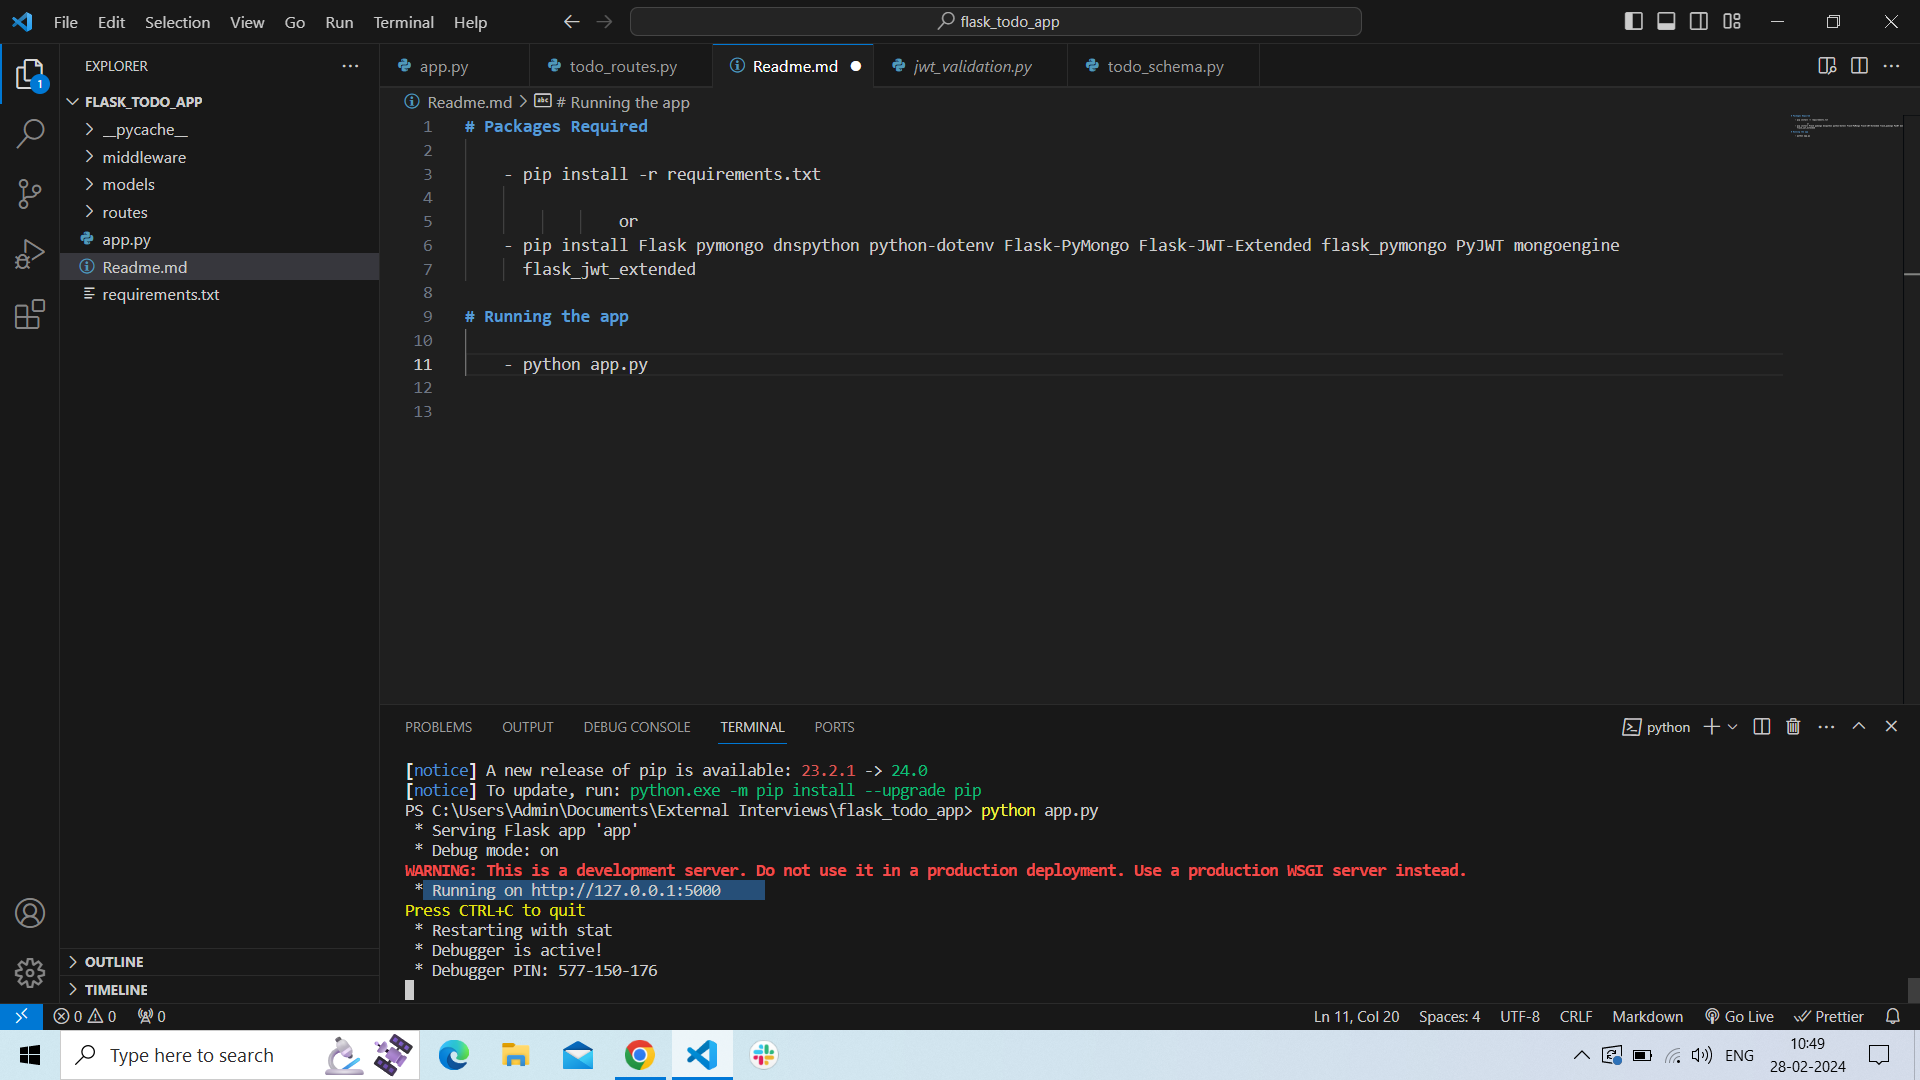
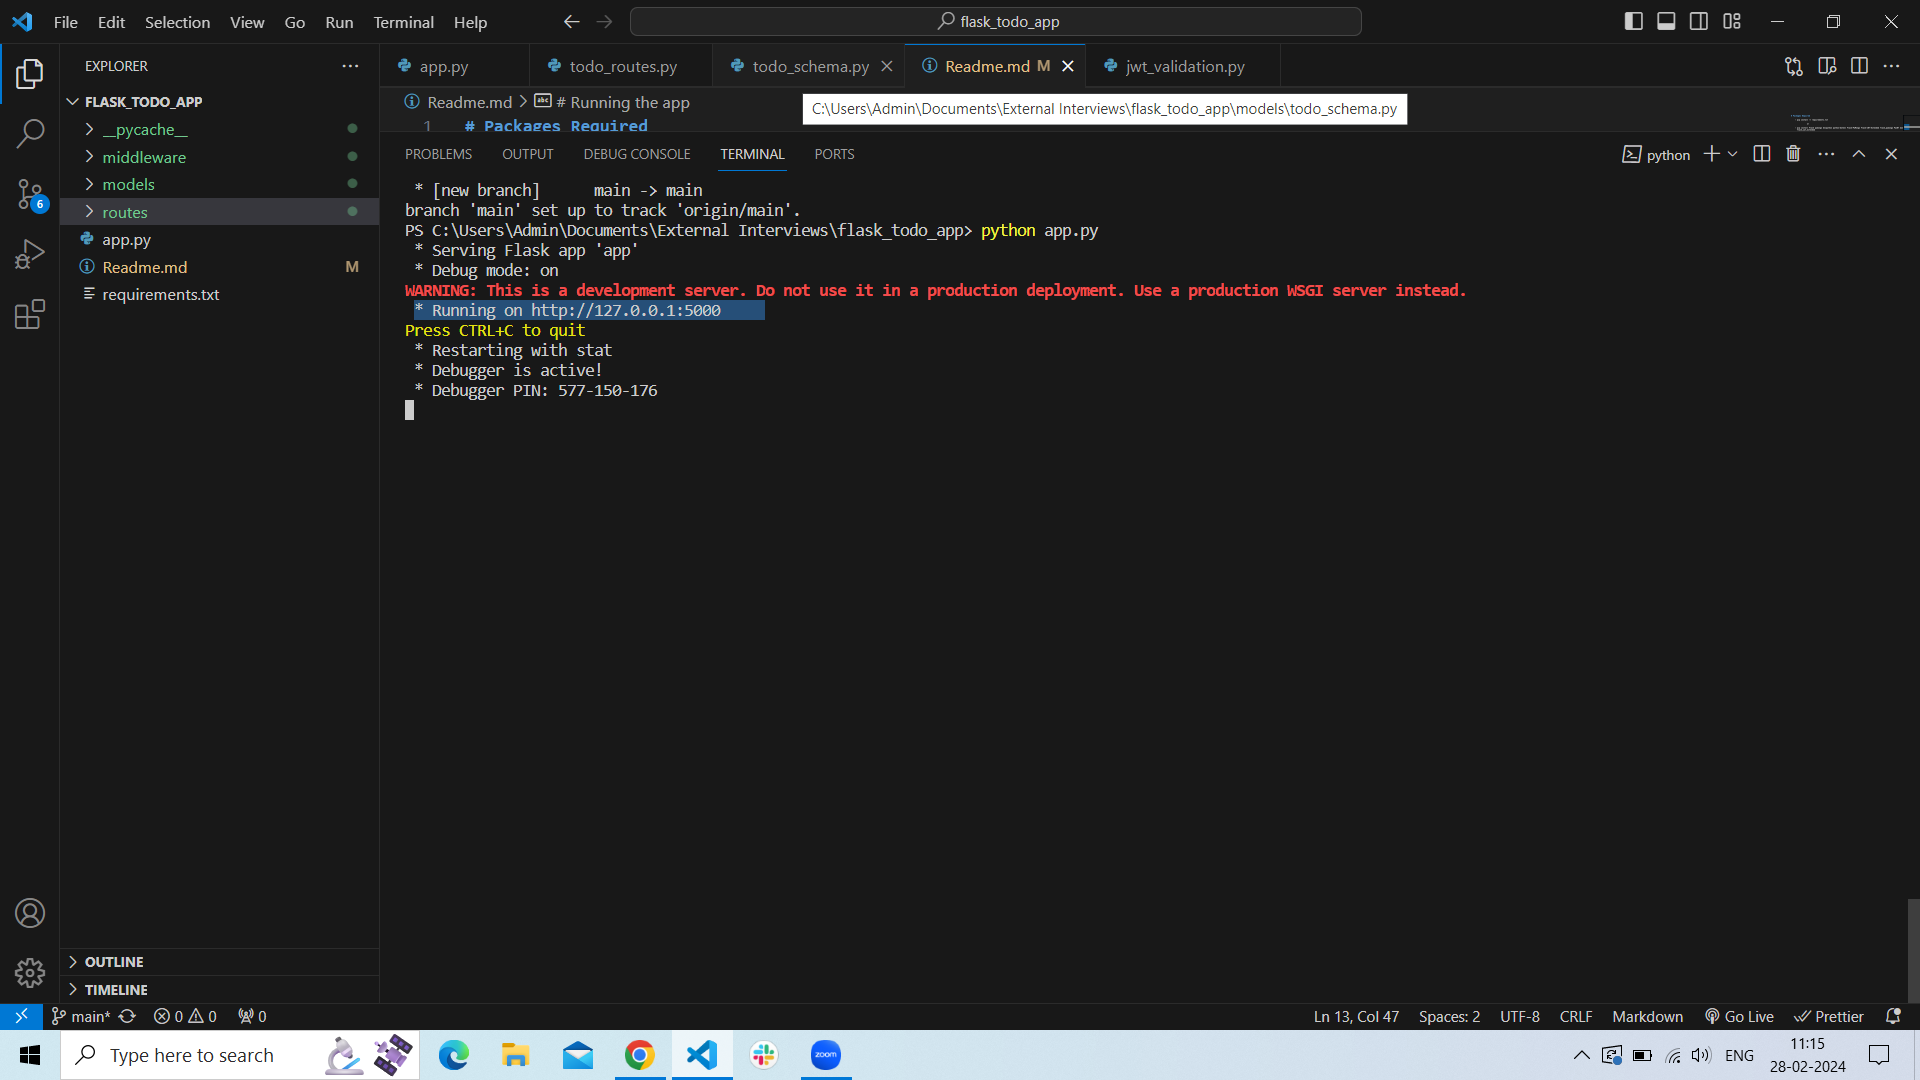
Added Readme file

diff --git a/app.py b/app.py
@@ -3,8 +3,8 @@ from flask_pymongo import PyMongo
 import datetime
 
 app = Flask(__name__)
-app.config['MONGO_URI'] = 'mongodb+srv://selva658:selva100_@cluster0.fowgx.mongodb.net/lybrate'
-app.config['SECRET_KEY'] = 'EYMDyiQy4MtIQPcET-xV-yG1dNWGF1P0A9tiaYumN6EXtldIamagSfGgNQypmCq4'
+app.config['MONGO_URI'] = ''
+app.config['SECRET_KEY'] = ''
 
 mongo = PyMongo(app)
 

diff --git a/Readme.md b/Readme.md
@@ -1,14 +1,107 @@
 # Packages Required
 
-    - pip install -r requirements.txt 
-
-                or 
-                
-    - pip install Flask pymongo dnspython python-dotenv Flask-PyMongo Flask-JWT-Extended flask_pymongo PyJWT mongoengine              
+  - pip install -r requirements.txt <b>or</b> pip install Flask pymongo dnspython python-dotenv Flask-PyMongo Flask-JWT-Extended flask_pymongo PyJWT mongoengine              
       flask_jwt_extended
 
 # Running the app
  
-    - python app.py
-    <img src="./image.png" alt="Girl in a jacket" width="500" height="600">
+  - python app.py
+
+  - copy the local URL from the terminal (i.e http://127.0.0.1:5000)
+
+  ![alt text](image.png)
+
+# Replace app.config keys in app.py
+
+  - replace the line no 6,7 with below
+
+  - app.config['MONGO_URI'] = 'mongodb+srv://selva658:selva100_@cluster0.fowgx.mongodb.net/lybrate'
+
+  - app.config['SECRET_KEY'] = 'EYMDyiQy4MtIQPcET-xV-yG1dNWGF1P0A9tiaYumN6EXtldIamagSfGgNQypmCq4'
+
+# Use Postman for testing the Endpoint
+
+  - [postman](https://web.postman.co/workspace/My-Workspace~89b7c15c-0c0b-4db3-8836-4454373cf629/request/create?requestId=7d39237e-5df3-4533-8f74-57e389f21211) 
+
+
+#  Login and get the JWT Token
+
+  - Utilize the POST method with the endpoint http://127.0.0.1:5000/login.
+
+  - Within the <b>Body</b> section, select the <b>raw</b> format and choose <b>JSON</b>.
+
+  - Input the username as test@123 and the password as 12345:
+
+  - {"username":"test@123","password":"12345"}
+
+  - Click on send,copy the response JWT Token
+
+
+![alt text](image-1.png)
+
+# GET TODO
+
+  - Access the endpoint http://127.0.0.1:5000/todo using the GET method.
+
+  - Within the <b>Headers</b> section, include the key as <b>Authorization</b> and the value as the <b>Copied JWT token</b>.
+    - If <b>Token is invalid!</b>, please login in again with same cred.
+
+  - Proceed by clicking on Send, which will result in a response displaying all the todos added in the database.
+
+
+![alt text](image-2.png)
+
+# GET specific item by ID
+
+  - Access the endpoint http://127.0.0.1:5000/todo/<id> using the GET method.
+
+  - Within the <b>Headers</b> section, include the key as <b>Authorization</b> and the value as the <b>Copied JWT token</b>.
+
+    - If <b>Token is invalid!</b>, please login in again with same cred.
+
+  - Proceed by clicking on Send, which will result in a response displaying specific item the todos added in the database.
+
+![alt text](image-3.png)
+
+# Create a new item
+
+  - Access the endpoint http://127.0.0.1:5000/todo using the POST method.
+
+  - Within the <b>Headers</b> section, include the key as <b>Authorization</b> and the value as the <b>Copied JWT token</b>.
+    - If <b>Token is invalid!</b>, please login in again with same cred.
+
+  - Within the <b>Body</b> section, select the <b>raw</b> format and choose <b>JSON</b>.
+
+  - Input the name and description (id, create_at will generated by DB)
+
+
+![alt text](image-4.png)
+
+#  Update an existing item
+
+  - Access the endpoint http://127.0.0.1:5000/todo/<id> using the PUT method.
+
+  - Within the <b>Headers</b> section, include the key as <b>Authorization</b> and the value as the <b>Copied JWT token</b>.
+    - If <b>Token is invalid!</b>, please login in again with same cred.
+
+  - Within the <b>Body</b> section, select the <b>raw</b> format and choose <b>JSON</b>.
+
+  - Input the name and description (id, create_at will generated by DB)
+
+![alt text](image-5.png)
+
+
+#  Delete an item
+
+  - Access the endpoint http://127.0.0.1:5000/todo/<id> using the DELETE method.
+
+  - Within the <b>Headers</b> section, include the key as <b>Authorization</b> and the value as the <b>Copied JWT token</b>.
+    - If <b>Token is invalid!</b>, please login in again with same cred.
+
+  ![alt text](image-6.png)
+
+
+
+
+  
 
